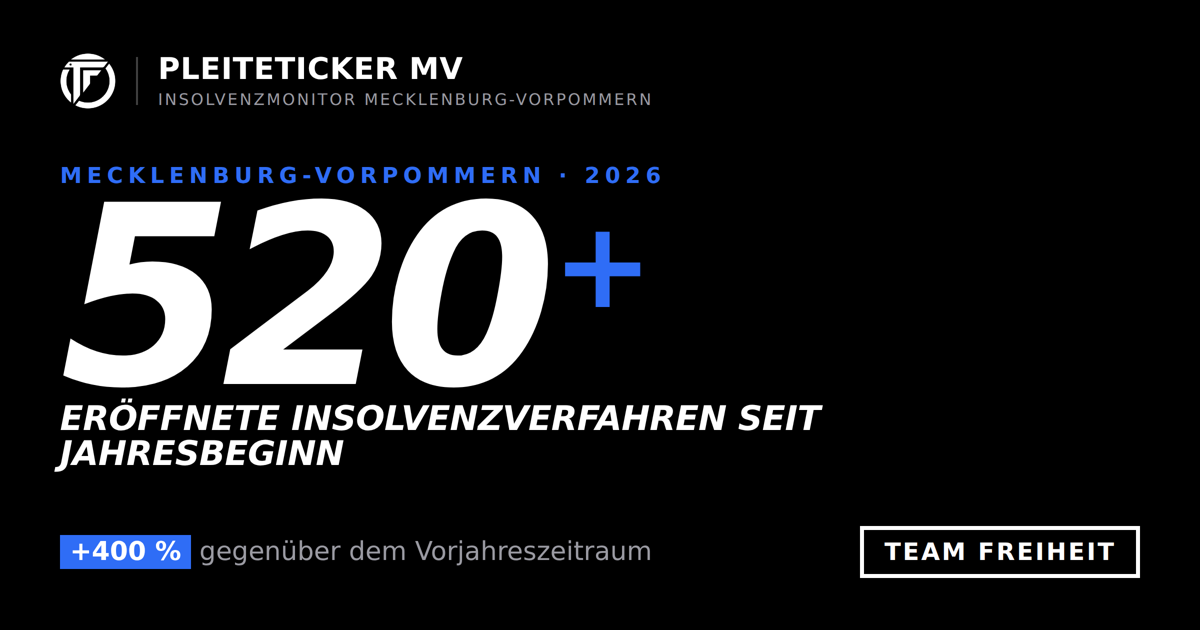
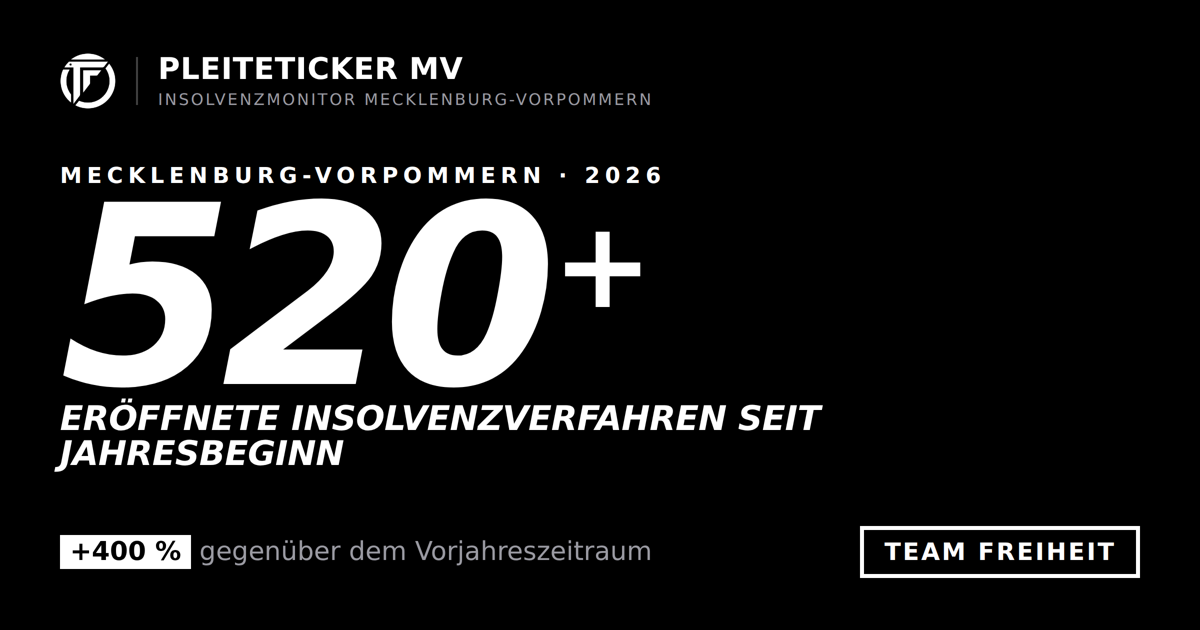
Add files via upload

diff --git a/index.html b/index.html
@@ -1,4 +1,4 @@
-<!-- redeploy-trigger: 2026-07-21 redesign -->
+<!-- redeploy-trigger: 2026-07-21 sw-inversion -->
 <!DOCTYPE html>
 <html lang="de">
 <head>
@@ -14,159 +14,131 @@
 <title>Pleiteticker MV – Team Freiheit</title>
 <style>
 * { margin:0; padding:0; box-sizing:border-box; }
-:root {
---black:#000000;
---surface:#0b0b0c;
---surface-2:#141416;
---line:rgba(255,255,255,0.14);
---line-strong:rgba(255,255,255,0.32);
---paper:#fbfaf8;
---ink:#0a0a0a;
---white:#ffffff;
---text:#f4f4f5;
---muted:#9a9aa2;
---accent:#2f6df6;
---accent-soft:rgba(47,109,246,0.14);
---accent-brd:rgba(47,109,246,0.45);
---font: system-ui, -apple-system, "Segoe UI", Roboto, Helvetica, Arial, sans-serif;
-}
-body {
-font-family: var(--font);
-background:#000;
-color:var(--text);
-min-height:100vh;
--webkit-font-smoothing:antialiased;
-}
-/* signature campaign display style: heavy, oblique, uppercase */
+:root { --font: system-ui, -apple-system, "Segoe UI", Roboto, Helvetica, Arial, sans-serif; }
+body { font-family:var(--font); background:#000; -webkit-font-smoothing:antialiased; }
 .display { font-weight:900; font-style:italic; text-transform:uppercase; letter-spacing:-0.02em; line-height:0.92; }
-.eyebrow { font-size:.7rem; font-weight:900; letter-spacing:3px; text-transform:uppercase; color:var(--accent); }
+
+/* ---- BAND SYSTEM: accent = inversion, no hue ---- */
+.band-dark  { --fg:#ffffff; --bg:#000000; --muted:#9a9a9a; --line:rgba(255,255,255,.16); --line-2:rgba(255,255,255,.32); --panel:rgba(255,255,255,.04); --hl-bg:#ffffff; --hl-fg:#000000; --bar-cur:#ffffff; --bar-cur-fg:#000; --bar-prev:rgba(255,255,255,.30); --bar-prev-fg:#fff; --bar-old:rgba(255,255,255,.12); --bar-old-fg:#cfcfcf; --bar-track:rgba(255,255,255,.06); }
+.band-light { --fg:#111111; --bg:#fbfaf8; --muted:#6b6660; --line:rgba(0,0,0,.16); --line-2:rgba(0,0,0,.34); --panel:rgba(0,0,0,.03); --hl-bg:#111111; --hl-fg:#fbfaf8; --bar-cur:#111111; --bar-cur-fg:#fbfaf8; --bar-prev:rgba(0,0,0,.32); --bar-prev-fg:#fbfaf8; --bar-old:rgba(0,0,0,.12); --bar-old-fg:#555; --bar-track:rgba(0,0,0,.06); }
+.band { background:var(--bg); color:var(--fg); }
+.inner { max-width:980px; margin:0 auto; padding:34px 20px 42px; }
+
+.eyebrow { font-size:.7rem; font-weight:900; letter-spacing:3px; text-transform:uppercase; color:var(--fg); opacity:.65; }
+.hl { background:var(--hl-bg); color:var(--hl-fg); padding:0 6px; }
 
 /* ---------- HEADER ---------- */
-header {
-background:#000;
-border-bottom:3px solid var(--white);
-padding:14px 28px;
-display:flex; align-items:center; justify-content:space-between;
-flex-wrap:wrap; gap:12px;
-position:sticky; top:0; z-index:100;
-}
+header { border-bottom:3px solid var(--fg); padding:14px 28px; display:flex; align-items:center; justify-content:space-between; flex-wrap:wrap; gap:12px; position:sticky; top:0; z-index:100; }
 .logo-group { display:flex; align-items:center; gap:14px; }
 .tf-logo-img { height:40px; width:auto; }
 .divider { width:2px; height:36px; background:rgba(255,255,255,.22); }
-.site-id .s1 { font-size:1.1rem; font-weight:900; color:var(--white); text-transform:uppercase; letter-spacing:.5px; }
+.site-id .s1 { font-size:1.1rem; font-weight:900; color:var(--fg); text-transform:uppercase; letter-spacing:.5px; }
 .site-id .s2 { font-size:.64rem; color:var(--muted); text-transform:uppercase; letter-spacing:1.6px; margin-top:2px; }
-.hdr-badge { border:2.5px solid var(--white); color:var(--white); padding:6px 14px; font-size:.62rem; font-weight:900; letter-spacing:2px; text-transform:uppercase; }
+.hdr-badge { border:2.5px solid var(--fg); color:var(--fg); padding:6px 14px; font-size:.62rem; font-weight:900; letter-spacing:2px; text-transform:uppercase; }
 
 /* ---------- LIVE BAND ---------- */
-.band { background:#050505; border-bottom:1px solid var(--line); height:38px; overflow:hidden; position:relative; display:flex; align-items:center; }
-.band-tag { position:absolute; left:0; top:0; bottom:0; background:var(--white); color:#000; display:flex; align-items:center; padding:0 14px; font-size:.62rem; font-weight:900; letter-spacing:2px; text-transform:uppercase; z-index:2; white-space:nowrap; }
-.band-scroll { display:flex; animation:bscroll 60s linear infinite; padding-left:104px; will-change:transform; }
-.band-scroll:hover { animation-play-state:paused; }
+.ticker { border-bottom:1px solid var(--line); height:38px; overflow:hidden; position:relative; display:flex; align-items:center; }
+.ticker-tag { position:absolute; left:0; top:0; bottom:0; background:var(--hl-bg); color:var(--hl-fg); display:flex; align-items:center; padding:0 14px; font-size:.62rem; font-weight:900; letter-spacing:2px; text-transform:uppercase; z-index:2; white-space:nowrap; }
+.ticker-scroll { display:flex; animation:bscroll 60s linear infinite; padding-left:104px; will-change:transform; }
+.ticker-scroll:hover { animation-play-state:paused; }
 .bi { white-space:nowrap; padding:0 22px; font-size:.78rem; }
-.bi .fn { font-weight:700; color:var(--white); }
+.bi .fn { font-weight:700; color:var(--fg); }
 .bi .fo { color:var(--muted); font-size:.74rem; }
-.bi .fb { color:var(--accent); font-size:.7rem; font-weight:700; }
-.bi .fs { color:var(--accent); padding:0 6px; }
+.bi .fb { color:var(--fg); font-size:.7rem; font-weight:800; text-transform:uppercase; }
+.bi .fs { opacity:.4; padding:0 6px; }
 @keyframes bscroll { 0%{transform:translateX(0)} 100%{transform:translateX(-50%)} }
 
 /* ---------- HERO ---------- */
-.hero { background:#000; padding:56px 24px 40px; text-align:center; position:relative; overflow:hidden; }
-.hero-eye { margin-bottom:16px; position:relative; z-index:1; }
-.ctr-wrap { display:flex; align-items:flex-start; justify-content:center; gap:4px; position:relative; z-index:1; }
-.ctr-num { font-size:clamp(5.5rem,16vw,11rem); font-weight:900; font-style:italic; line-height:.86; color:var(--white); font-variant-numeric:tabular-nums; letter-spacing:-.04em; }
-.ctr-plus { font-size:clamp(2.4rem,6vw,4.5rem); font-weight:900; color:var(--accent); margin-top:8px; line-height:1; }
-.hero-lbl { font-size:clamp(1rem,2.6vw,1.5rem); margin:14px auto 6px; max-width:720px; color:var(--white); position:relative; z-index:1; }
-.hero-sub { font-size:.8rem; color:var(--muted); margin-bottom:26px; position:relative; z-index:1; }
-.pills { display:flex; gap:0; justify-content:center; flex-wrap:wrap; position:relative; z-index:1; border:1px solid var(--line-strong); width:fit-content; margin:0 auto; }
-.pill { background:transparent; border-right:1px solid var(--line); padding:9px 16px; font-size:.76rem; display:flex; align-items:center; gap:7px; }
+.hero { text-align:center; padding-top:52px; }
+.ctr-wrap { display:flex; align-items:flex-start; justify-content:center; gap:4px; }
+.ctr-num { font-size:clamp(5.5rem,16vw,11rem); font-weight:900; font-style:italic; line-height:.86; color:var(--fg); font-variant-numeric:tabular-nums; letter-spacing:-.04em; }
+.ctr-plus { font-size:clamp(2.4rem,6vw,4.5rem); font-weight:900; color:var(--fg); margin-top:8px; }
+.hero-lbl { font-size:clamp(1rem,2.6vw,1.5rem); margin:14px auto 6px; max-width:720px; color:var(--fg); }
+.hero-sub { font-size:.8rem; color:var(--muted); margin-bottom:26px; }
+.pills { display:flex; gap:0; justify-content:center; flex-wrap:wrap; border:1px solid var(--line-2); width:fit-content; margin:0 auto; }
+.pill { border-right:1px solid var(--line); padding:9px 16px; font-size:.76rem; display:flex; align-items:center; gap:7px; }
 .pill:last-child { border-right:none; }
-.pv { font-weight:900; color:var(--accent); }
+.pv { font-weight:900; background:var(--hl-bg); color:var(--hl-fg); padding:0 6px; }
 .pl { color:var(--muted); }
-.upd-row { display:flex; align-items:center; justify-content:center; gap:8px; margin-top:20px; font-size:.7rem; color:var(--muted); text-transform:uppercase; letter-spacing:1px; position:relative; z-index:1; }
-.ldot { width:7px; height:7px; border-radius:50%; background:#4ade80; flex-shrink:0; animation:blink 2.5s infinite; }
+.upd-row { display:flex; align-items:center; justify-content:center; gap:8px; margin-top:20px; font-size:.7rem; color:var(--muted); text-transform:uppercase; letter-spacing:1px; }
+.ldot { width:7px; height:7px; border-radius:50%; background:var(--fg); animation:blink 2.5s infinite; }
 @keyframes blink { 0%,100%{opacity:1} 50%{opacity:.2} }
 
 /* ---------- BREAKING ---------- */
-.breaking { max-width:980px; margin:0 auto; padding:0 20px; position:relative; z-index:1; }
-.breaking-inner { background:var(--accent-soft); border:2px solid var(--accent-brd); border-left:6px solid var(--accent); padding:18px 22px; display:flex; align-items:center; gap:16px; flex-wrap:wrap; }
-.breaking-tag { background:var(--accent); color:var(--white); font-size:.64rem; font-weight:900; letter-spacing:2px; text-transform:uppercase; padding:5px 12px; white-space:nowrap; flex-shrink:0; }
-.breaking-text { font-size:.86rem; color:var(--text); line-height:1.55; flex:1; }
-.breaking-text strong { color:var(--white); background:var(--accent); padding:0 4px; }
+.breaking-inner { border:2px solid var(--fg); border-left:8px solid var(--fg); padding:18px 22px; display:flex; align-items:center; gap:16px; flex-wrap:wrap; }
+.breaking-tag { background:var(--hl-bg); color:var(--hl-fg); font-size:.64rem; font-weight:900; letter-spacing:2px; text-transform:uppercase; padding:5px 12px; white-space:nowrap; flex-shrink:0; }
+.breaking-text { font-size:.9rem; color:var(--fg); line-height:1.55; flex:1; }
+.breaking-text strong { background:var(--hl-bg); color:var(--hl-fg); padding:0 4px; }
 
-/* ---------- MAIN GRID ---------- */
-main { max-width:980px; margin:0 auto; padding:30px 20px 52px; display:grid; grid-template-columns:1fr 1fr; gap:16px; }
-@media(max-width:640px){ main{grid-template-columns:1fr} }
-.card { background:var(--surface); border:1px solid var(--line); padding:22px 24px; }
+/* ---------- CARDS / GRID ---------- */
+.grid { display:grid; grid-template-columns:1fr 1fr; gap:16px; }
+@media(max-width:640px){ .grid{grid-template-columns:1fr} }
+.card { border:1px solid var(--line); padding:22px 24px; }
 .card-full { grid-column:1/-1; }
-.ch { font-size:.62rem; font-weight:900; letter-spacing:2.5px; text-transform:uppercase; color:var(--accent); margin-bottom:16px; padding-bottom:10px; border-bottom:1px solid var(--line); }
+.grid + .grid, .breaking-inner + .grid { margin-top:16px; }
+.breaking + .grid { margin-top:24px; }
+.ch { font-size:.62rem; font-weight:900; letter-spacing:2.5px; text-transform:uppercase; color:var(--fg); opacity:.7; margin-bottom:16px; padding-bottom:10px; border-bottom:1px solid var(--line); }
 
-/* week header */
 .week-header { display:flex; justify-content:space-between; align-items:center; margin-bottom:16px; padding-bottom:12px; border-bottom:1px solid var(--line); flex-wrap:wrap; gap:8px; }
 .week-title-group { display:flex; align-items:baseline; gap:10px; flex-wrap:wrap; }
-.week-title { font-size:.62rem; font-weight:900; letter-spacing:2.5px; text-transform:uppercase; color:var(--accent); }
-.week-count { font-size:2rem; font-weight:900; font-style:italic; color:var(--white); line-height:1; letter-spacing:-.02em; }
+.week-title { font-size:.62rem; font-weight:900; letter-spacing:2.5px; text-transform:uppercase; color:var(--fg); opacity:.7; }
+.week-count { font-size:2rem; font-weight:900; font-style:italic; color:var(--fg); line-height:1; letter-spacing:-.02em; }
 .week-count-lbl { font-size:.6rem; font-weight:900; letter-spacing:2px; text-transform:uppercase; color:var(--muted); }
-.week-badge { background:var(--white); color:#000; padding:4px 11px; font-size:.64rem; font-weight:900; text-transform:uppercase; letter-spacing:1px; }
+.week-badge { background:var(--hl-bg); color:var(--hl-fg); padding:4px 11px; font-size:.64rem; font-weight:900; text-transform:uppercase; letter-spacing:1px; }
 
-/* cases */
 .cases { display:flex; flex-direction:column; gap:8px; }
-.case { display:flex; gap:12px; padding:11px 13px; background:var(--surface-2); border-left:3px solid var(--accent); }
-.cdot { width:7px; height:7px; border-radius:50%; background:var(--accent); margin-top:5px; flex-shrink:0; animation:blink 2.5s infinite; }
-.cn { font-size:.86rem; font-weight:700; margin-bottom:2px; color:var(--white); }
+.case { display:flex; gap:12px; padding:11px 13px; background:var(--panel); border-left:3px solid var(--fg); }
+.cdot { width:7px; height:7px; border-radius:50%; background:var(--fg); margin-top:5px; flex-shrink:0; animation:blink 2.5s infinite; }
+.cn { font-size:.86rem; font-weight:700; margin-bottom:2px; color:var(--fg); }
 .cm { font-size:.72rem; color:var(--muted); }
-.ctag { display:inline-block; border:1px solid var(--accent-brd); color:var(--accent); padding:1px 7px; font-size:.62rem; font-weight:800; text-transform:uppercase; letter-spacing:.5px; margin-left:6px; }
+.ctag { display:inline-block; background:var(--hl-bg); color:var(--hl-fg); padding:1px 7px; font-size:.62rem; font-weight:800; text-transform:uppercase; letter-spacing:.5px; margin-left:6px; }
 .cnote { margin-top:12px; font-size:.7rem; color:var(--muted); }
-.cnote a { color:var(--accent); text-decoration:none; border-bottom:1px solid var(--accent-brd); }
+.cnote a { color:var(--fg); text-decoration:underline; }
 
-/* year bars */
 .bars { display:flex; flex-direction:column; gap:11px; }
 .bar-row { display:flex; align-items:center; gap:10px; }
 .bar-yr { width:34px; font-size:.75rem; font-weight:700; color:var(--muted); flex-shrink:0; }
-.bar-outer { flex:1; background:rgba(255,255,255,.05); height:30px; overflow:hidden; }
+.bar-outer { flex:1; background:var(--bar-track); height:30px; overflow:hidden; }
 .bar-inner { height:100%; display:flex; align-items:center; padding:0 10px; font-size:.75rem; font-weight:800; width:0; transition:width 1.4s cubic-bezier(.4,0,.2,1); white-space:nowrap; }
-.bold { background:rgba(255,255,255,.10); color:var(--muted); }
-.bprev { background:rgba(47,109,246,.40); color:var(--white); }
-.bcur { background:var(--accent); color:var(--white); }
+.bold { background:var(--bar-old); color:var(--bar-old-fg); }
+.bprev { background:var(--bar-prev); color:var(--bar-prev-fg); }
+.bcur { background:var(--bar-cur); color:var(--bar-cur-fg); }
 
-/* branchen */
 .branchen { display:flex; flex-direction:column; gap:10px; }
 .br-row { display:flex; align-items:center; gap:10px; }
-.br-label { width:130px; font-size:.75rem; color:var(--text); flex-shrink:0; }
-.br-bar-outer { flex:1; background:rgba(255,255,255,.05); height:27px; overflow:hidden; }
+.br-label { width:130px; font-size:.75rem; color:var(--fg); flex-shrink:0; }
+.br-bar-outer { flex:1; background:var(--bar-track); height:27px; overflow:hidden; }
 .br-bar-inner { height:100%; display:flex; align-items:center; padding:0 8px; font-size:.72rem; font-weight:800; width:0; transition:width 1.4s cubic-bezier(.4,0,.2,1); white-space:nowrap; }
-.bc1 { background:var(--accent); color:var(--white); }
-.bc2 { background:rgba(47,109,246,.68); color:var(--white); }
-.bc3 { background:rgba(47,109,246,.48); color:var(--white); }
-.bc4 { background:rgba(47,109,246,.30); color:var(--text); }
-.bc5 { background:rgba(47,109,246,.18); color:var(--muted); }
+.bc1 { background:var(--bar-cur); color:var(--bar-cur-fg); }
+.bc2 { background:var(--bar-prev); color:var(--bar-prev-fg); }
+.bc3 { background:var(--bar-old); color:var(--bar-old-fg); }
+.bc4 { background:var(--bar-old); color:var(--bar-old-fg); opacity:.7; }
+.bc5 { background:var(--bar-old); color:var(--bar-old-fg); opacity:.5; }
 
-/* facts */
 .facts { display:flex; flex-direction:column; }
 .fact { display:flex; justify-content:space-between; align-items:center; gap:12px; padding:11px 0; border-bottom:1px solid var(--line); }
 .fact:last-child { border-bottom:none; }
 .fl { font-size:.8rem; color:var(--muted); }
-.fv { font-size:.92rem; font-weight:800; text-align:right; }
-.fg { color:var(--accent); }
-.fw { color:var(--white); }
-.fd { color:var(--text); }
+.fv { font-size:.92rem; font-weight:800; text-align:right; color:var(--fg); }
+.fv .hl { font-weight:900; }
 
-/* ---------- CTA (inverted / paper) ---------- */
-.cta { grid-column:1/-1; background:var(--paper); color:var(--ink); padding:40px 34px; display:flex; align-items:center; justify-content:space-between; gap:26px; flex-wrap:wrap; }
-.cta-txt h2 { font-size:clamp(1.5rem,4vw,2.4rem); font-weight:900; font-style:italic; text-transform:uppercase; letter-spacing:-.02em; line-height:.98; margin-bottom:12px; color:var(--ink); }
-.cta-txt h2 span { color:var(--accent); }
-.cta-txt p { font-size:.86rem; color:#4a463f; max-width:520px; line-height:1.6; }
-.cta-btn { display:inline-flex; align-items:center; gap:9px; background:#000; color:#fff; padding:15px 26px; font-family:var(--font); font-weight:900; font-size:.82rem; text-transform:uppercase; letter-spacing:1px; text-decoration:none; white-space:nowrap; flex-shrink:0; border:2px solid #000; transition:background .15s, color .15s, transform .1s; }
-.cta-btn:hover { background:var(--accent); border-color:var(--accent); transform:translateY(-2px); }
+/* ---------- CTA ---------- */
+.cta { display:flex; align-items:center; justify-content:space-between; gap:26px; flex-wrap:wrap; }
+.cta-txt h2 { font-size:clamp(1.5rem,4vw,2.4rem); font-weight:900; font-style:italic; text-transform:uppercase; letter-spacing:-.02em; line-height:.98; margin-bottom:12px; color:var(--fg); }
+.cta-txt h2 span { background:var(--hl-bg); color:var(--hl-fg); padding:0 8px; }
+.cta-txt p { font-size:.86rem; color:var(--muted); max-width:520px; line-height:1.6; }
+.cta-btn { display:inline-flex; align-items:center; gap:9px; background:var(--fg); color:var(--bg); padding:15px 26px; font-family:var(--font); font-weight:900; font-size:.82rem; text-transform:uppercase; letter-spacing:1px; text-decoration:none; white-space:nowrap; border:2px solid var(--fg); transition:background .15s,color .15s,transform .1s; }
+.cta-btn:hover { background:transparent; color:var(--fg); transform:translateY(-2px); }
 
 /* ---------- FOOTER ---------- */
-footer { border-top:1px solid var(--line); background:#000; padding:20px 28px; display:flex; align-items:center; justify-content:space-between; flex-wrap:wrap; gap:10px; font-size:.68rem; color:var(--muted); }
+footer { border-top:1px solid var(--line); padding:20px 28px; display:flex; align-items:center; justify-content:space-between; flex-wrap:wrap; gap:10px; font-size:.68rem; color:var(--muted); }
 footer a { color:var(--muted); text-decoration:underline; }
-.fbrand { font-weight:900; color:var(--white); text-transform:uppercase; letter-spacing:1px; border:2px solid var(--white); padding:4px 10px; font-size:.62rem; }
+.fbrand { font-weight:900; color:var(--fg); text-transform:uppercase; letter-spacing:1px; border:2px solid var(--fg); padding:4px 10px; font-size:.62rem; }
 </style>
 </head>
 <body>
 
-<header>
+<header class="band band-dark">
 <div class="logo-group">
 <img src="logo.png" alt="Team Freiheit" class="tf-logo-img">
 <div class="divider"></div>
@@ -178,13 +150,15 @@ footer a { color:var(--muted); text-decoration:underline; }
 <div class="hdr-badge">Landtagswahl 2026</div>
 </header>
 
-<div class="band">
-<div class="band-tag">Aktuell</div>
-<div class="band-scroll" id="bandScroll"></div>
+<div class="ticker band band-dark">
+<div class="ticker-tag">Aktuell</div>
+<div class="ticker-scroll" id="bandScroll"></div>
 </div>
 
-<div class="hero">
-<div class="hero-eye eyebrow">Mecklenburg-Vorpommern · 01.01.2026 – 20.07.2026</div>
+<!-- SCHWARZ: Hero -->
+<section class="band band-dark">
+<div class="inner hero">
+<div class="eyebrow">Mecklenburg-Vorpommern · 01.01.2026 – 20.07.2026</div>
 <div class="ctr-wrap">
 <div class="ctr-num" id="mainCtr">0</div>
 <div class="ctr-plus">+</div>
@@ -196,12 +170,13 @@ footer a { color:var(--muted); text-decoration:underline; }
 <div class="pill"><span class="pv">104 → 520</span><span class="pl">Jan–Jul 2025 vs. 2026</span></div>
 <div class="pill"><span class="pv">Bau &amp; Gastro</span><span class="pl">am stärksten betroffen</span></div>
 </div>
-<div class="upd-row">
-<span class="ldot"></span>
-Nächste Aktualisierung: Freitag Nachmittag
+<div class="upd-row"><span class="ldot"></span> Nächste Aktualisierung: Freitag Nachmittag</div>
 </div>
-</div>
+</section>
 
+<!-- CREME: Breaking + Diese Woche (Inversion) -->
+<section class="band band-light">
+<div class="inner">
 <div class="breaking">
 <div class="breaking-inner">
 <div class="breaking-tag">⚠ Anhaltend hoch</div>
@@ -211,8 +186,7 @@ Nächste Aktualisierung: Freitag Nachmittag
 </div>
 </div>
 
-<main>
-
+<div class="grid">
 <div class="card card-full">
 <div class="week-header">
 <div class="week-title-group">
@@ -223,12 +197,16 @@ Nächste Aktualisierung: Freitag Nachmittag
 <div class="week-badge" id="weekLabel">–</div>
 </div>
 <div class="cases" id="weekCases"></div>
-<div class="cnote" style="margin-top:12px;">
-Vollständige Liste: <a href="https://neu.insolvenzbekanntmachungen.de" target="_blank">insolvenzbekanntmachungen.de</a>
-→ Bundesland: MV · Gegenstand: Eröffnungen
+<div class="cnote">Vollständige Liste: <a href="https://neu.insolvenzbekanntmachungen.de" target="_blank">insolvenzbekanntmachungen.de</a> → Bundesland: MV · Gegenstand: Eröffnungen</div>
 </div>
 </div>
+</div>
+</section>
 
+<!-- SCHWARZ: Jahresvergleich + Fakten -->
+<section class="band band-dark">
+<div class="inner">
+<div class="grid">
 <div class="card">
 <div class="ch">Jahresvergleich · Eröffnungen MV · insolvenzbekanntmachungen.de</div>
 <div class="bars">
@@ -239,27 +217,34 @@ Vollständige Liste: <a href="https://neu.insolvenzbekanntmachungen.de" target="
 <div class="bar-row"><div class="bar-yr">2026</div><div class="bar-outer"><div class="bar-inner bcur" data-w="100">520 (seit 01.01.) +400%</div></div></div>
 </div>
 </div>
-
 <div class="card">
 <div class="ch">Zahlen &amp; Fakten</div>
 <div class="facts">
-<div class="fact"><div class="fl">Eröffnungen Jan–Jul 2025</div><div class="fv fd">104 Verfahren</div></div>
-<div class="fact"><div class="fl">Eröffnungen Jan–Jul 2026</div><div class="fv fg">520 Verfahren</div></div>
-<div class="fact"><div class="fl">Anstieg ggü. Vorjahr</div><div class="fv fg">+400 %</div></div>
-<div class="fact"><div class="fl">Vergleich zu Gesamtjahr 2025 (192)</div><div class="fv fg">520 – bereits übertroffen</div></div>
-<div class="fact"><div class="fl">Stärkste Branche</div><div class="fv fd">Baugewerbe</div></div>
+<div class="fact"><div class="fl">Eröffnungen Jan–Jul 2025</div><div class="fv">104 Verfahren</div></div>
+<div class="fact"><div class="fl">Eröffnungen Jan–Jul 2026</div><div class="fv"><span class="hl">520 Verfahren</span></div></div>
+<div class="fact"><div class="fl">Anstieg ggü. Vorjahr</div><div class="fv"><span class="hl">+400 %</span></div></div>
+<div class="fact"><div class="fl">Vergleich zu Gesamtjahr 2025 (192)</div><div class="fv">520 – bereits übertroffen</div></div>
+<div class="fact"><div class="fl">Stärkste Branche</div><div class="fv">Baugewerbe</div></div>
 </div>
 </div>
+</div>
+</div>
+</section>
 
+<!-- CREME: Schlaglichter (Inversion) -->
+<section class="band band-light">
+<div class="inner">
 <div class="card card-full">
 <div class="ch">Schlaglichter · Große Insolvenzen 2026 in MV</div>
 <div class="cases" id="bigCaseList"></div>
-<div class="cnote" style="margin-top:14px;">
-Alle Verfahren: <a href="https://neu.insolvenzbekanntmachungen.de" target="_blank">insolvenzbekanntmachungen.de</a>
-→ Bundesland: MV · Gegenstand: Eröffnungen
+<div class="cnote">Alle Verfahren: <a href="https://neu.insolvenzbekanntmachungen.de" target="_blank">insolvenzbekanntmachungen.de</a> → Bundesland: MV · Gegenstand: Eröffnungen</div>
 </div>
 </div>
+</section>
 
+<!-- SCHWARZ: Branchen -->
+<section class="band band-dark">
+<div class="inner">
 <div class="card card-full">
 <div class="ch">Betroffene Branchen · MV 2024 (Creditreform)</div>
 <div class="branchen">
@@ -270,21 +255,27 @@ Alle Verfahren: <a href="https://neu.insolvenzbekanntmachungen.de" target="_blan
 <div class="br-row"><div class="br-label">Dienstleistung</div><div class="br-bar-outer"><div class="br-bar-inner bc5" data-w="30">16 Fälle</div></div></div>
 </div>
 </div>
+</div>
+</section>
 
-<div class="cta">
+<!-- CREME: CTA (Inversion) -->
+<section class="band band-light">
+<div class="inner cta">
 <div class="cta-txt">
 <h2>MV verdient <span>bessere Wirtschaftspolitik.</span></h2>
 <p>Jede Insolvenz steht für Arbeitsplätze, Lebensleistungen und Familien in der Unsicherheit. Weniger Bürokratie, weniger Staat, mehr unternehmerische Freiheit — dafür tritt Team Freiheit zur Landtagswahl 2026 an.</p>
 </div>
 <a href="https://www.team-freiheit.de" class="cta-btn" target="_blank">Mehr erfahren →</a>
 </div>
+</section>
 
-</main>
-
+<!-- SCHWARZ: Footer -->
+<div class="band band-dark">
 <footer>
 <div>Daten: insolvenzbekanntmachungen.de · Creditreform · Wöchentlich aktualisiert · Ohne Gewähr</div>
 <div class="fbrand">Team Freiheit MV · Landtagswahl 2026</div>
 </footer>
+</div>
 
 <script>
 const DATA = {
@@ -362,7 +353,7 @@ document.getElementById('bigCaseList').innerHTML = DATA.bigFaelle.map(f=>`
 <div>
 <div class="cn">${f.name}<span class="ctag">${f.branche}</span></div>
 <div class="cm" style="margin-bottom:3px;">${f.ort} · ${f.datum}</div>
-<div class="cm" style="color:var(--text);opacity:.8;">${f.info}</div>
+<div class="cm" style="opacity:.8;">${f.info}</div>
 </div>
 </div>`).join('');
 }